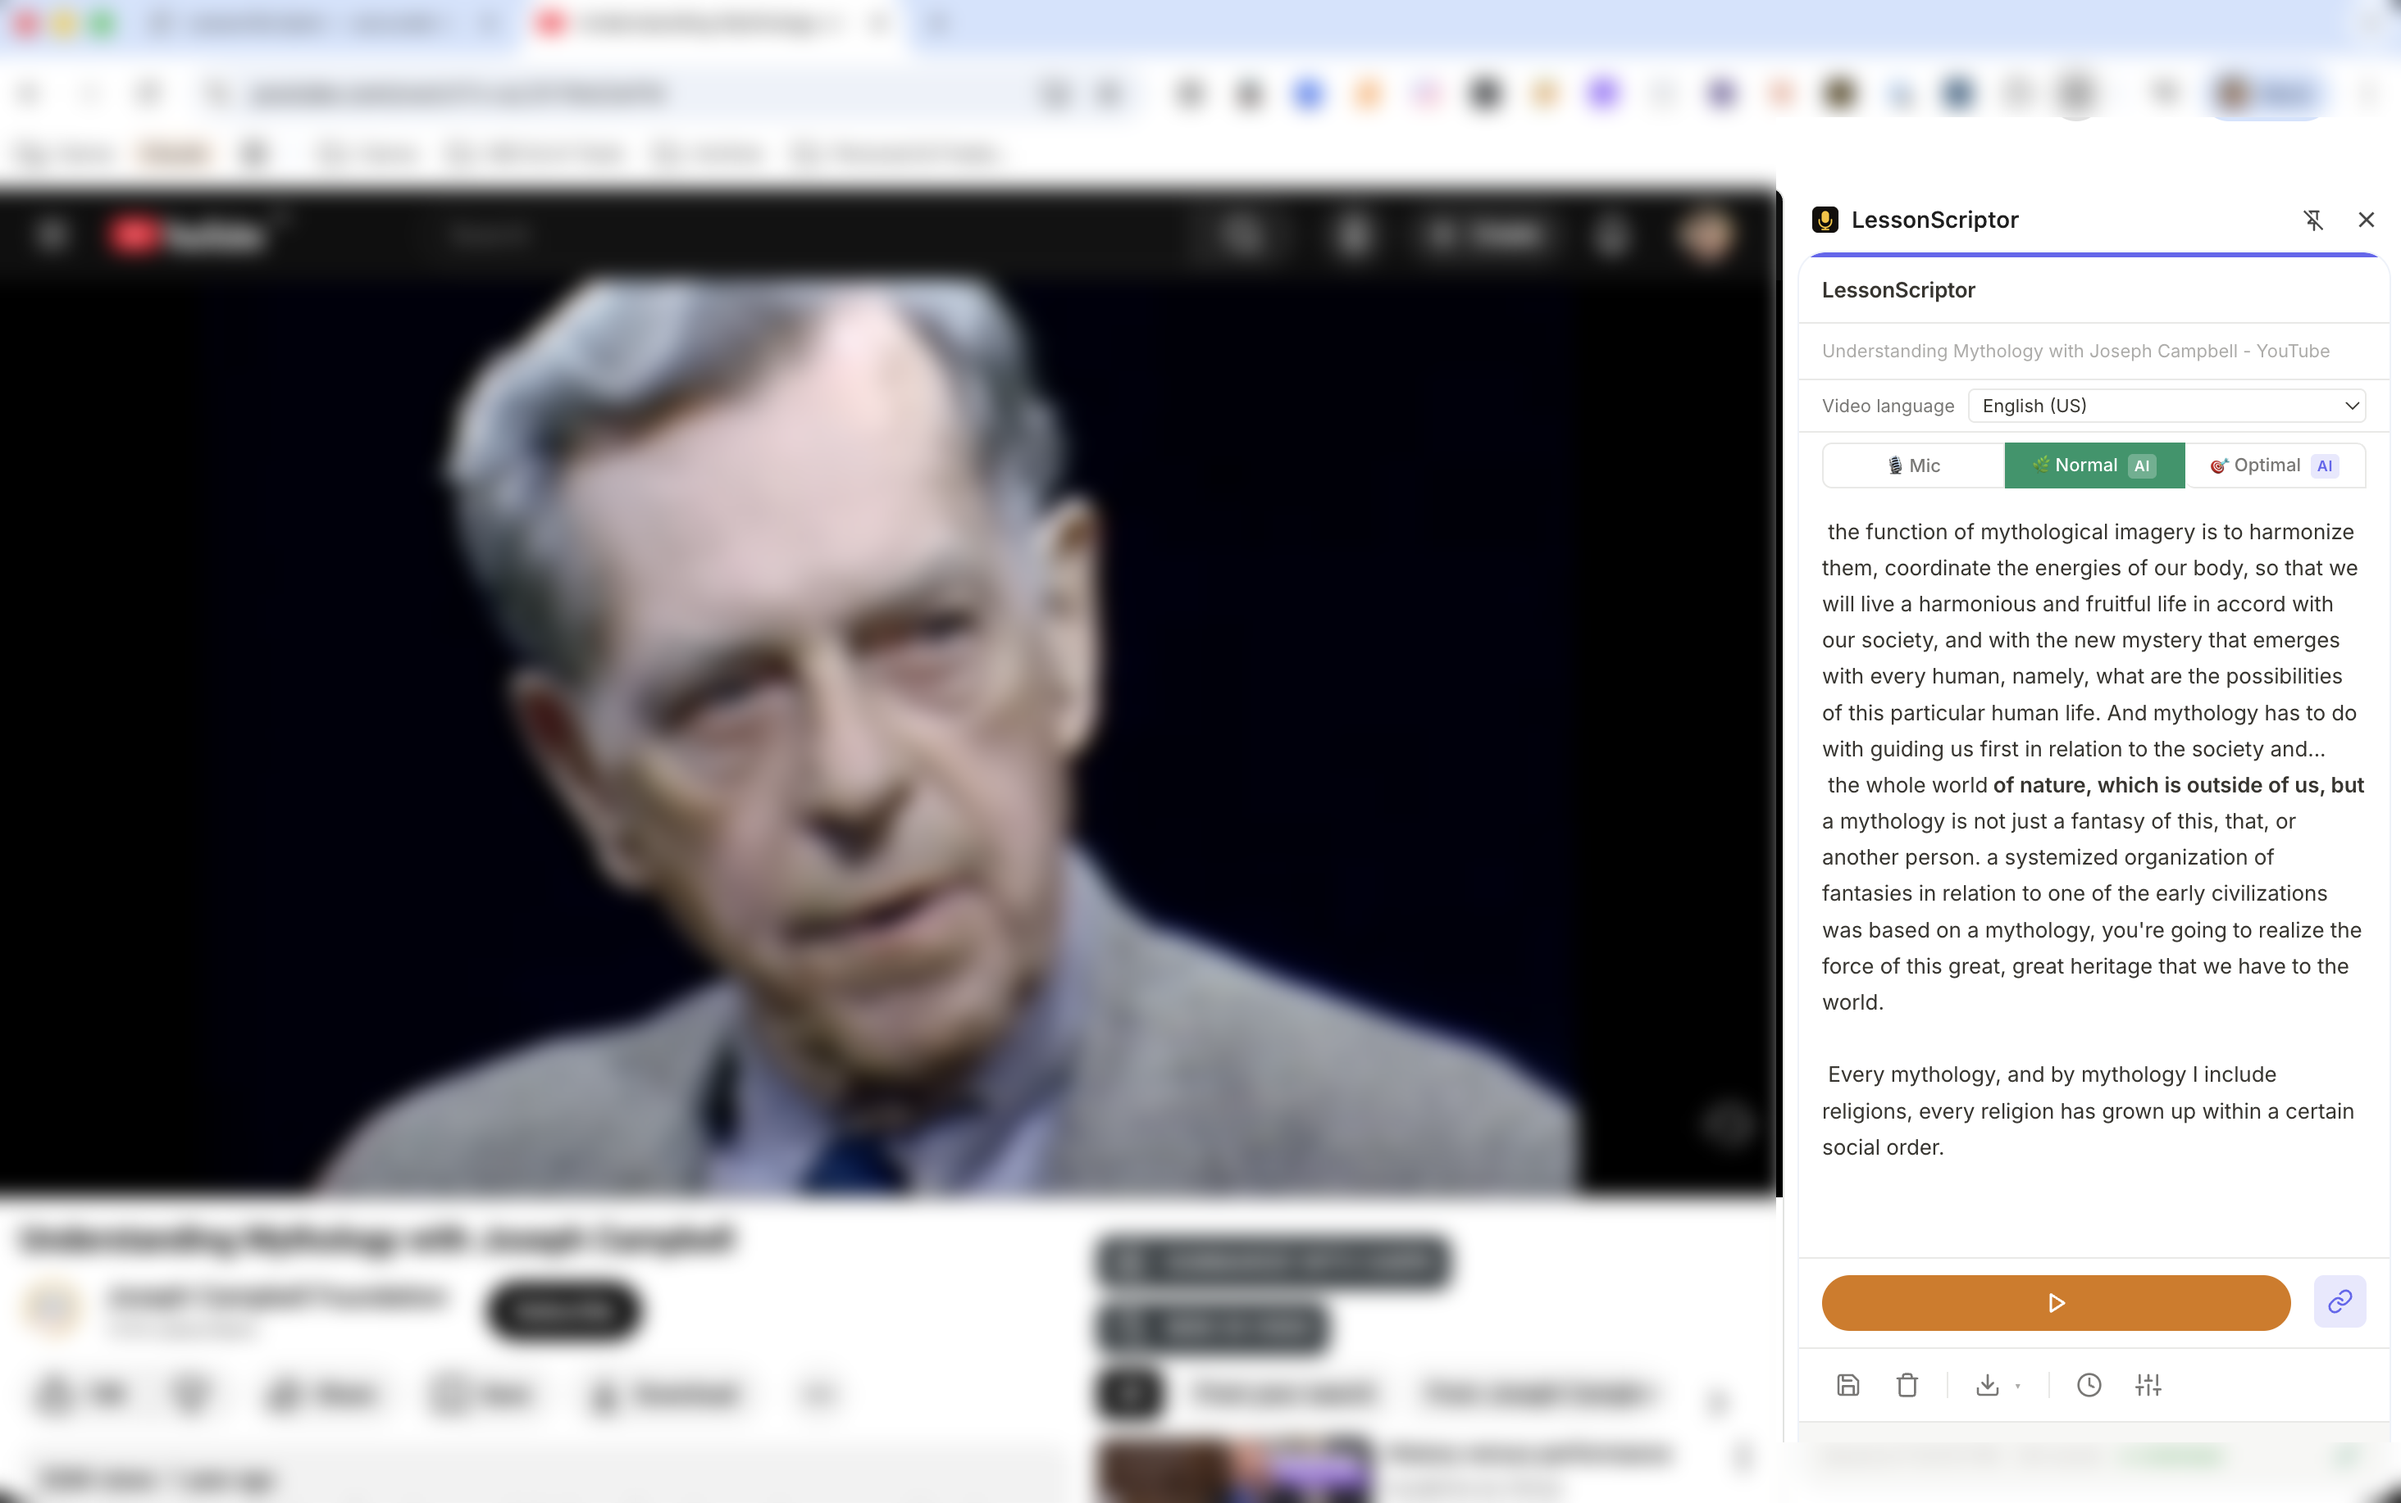
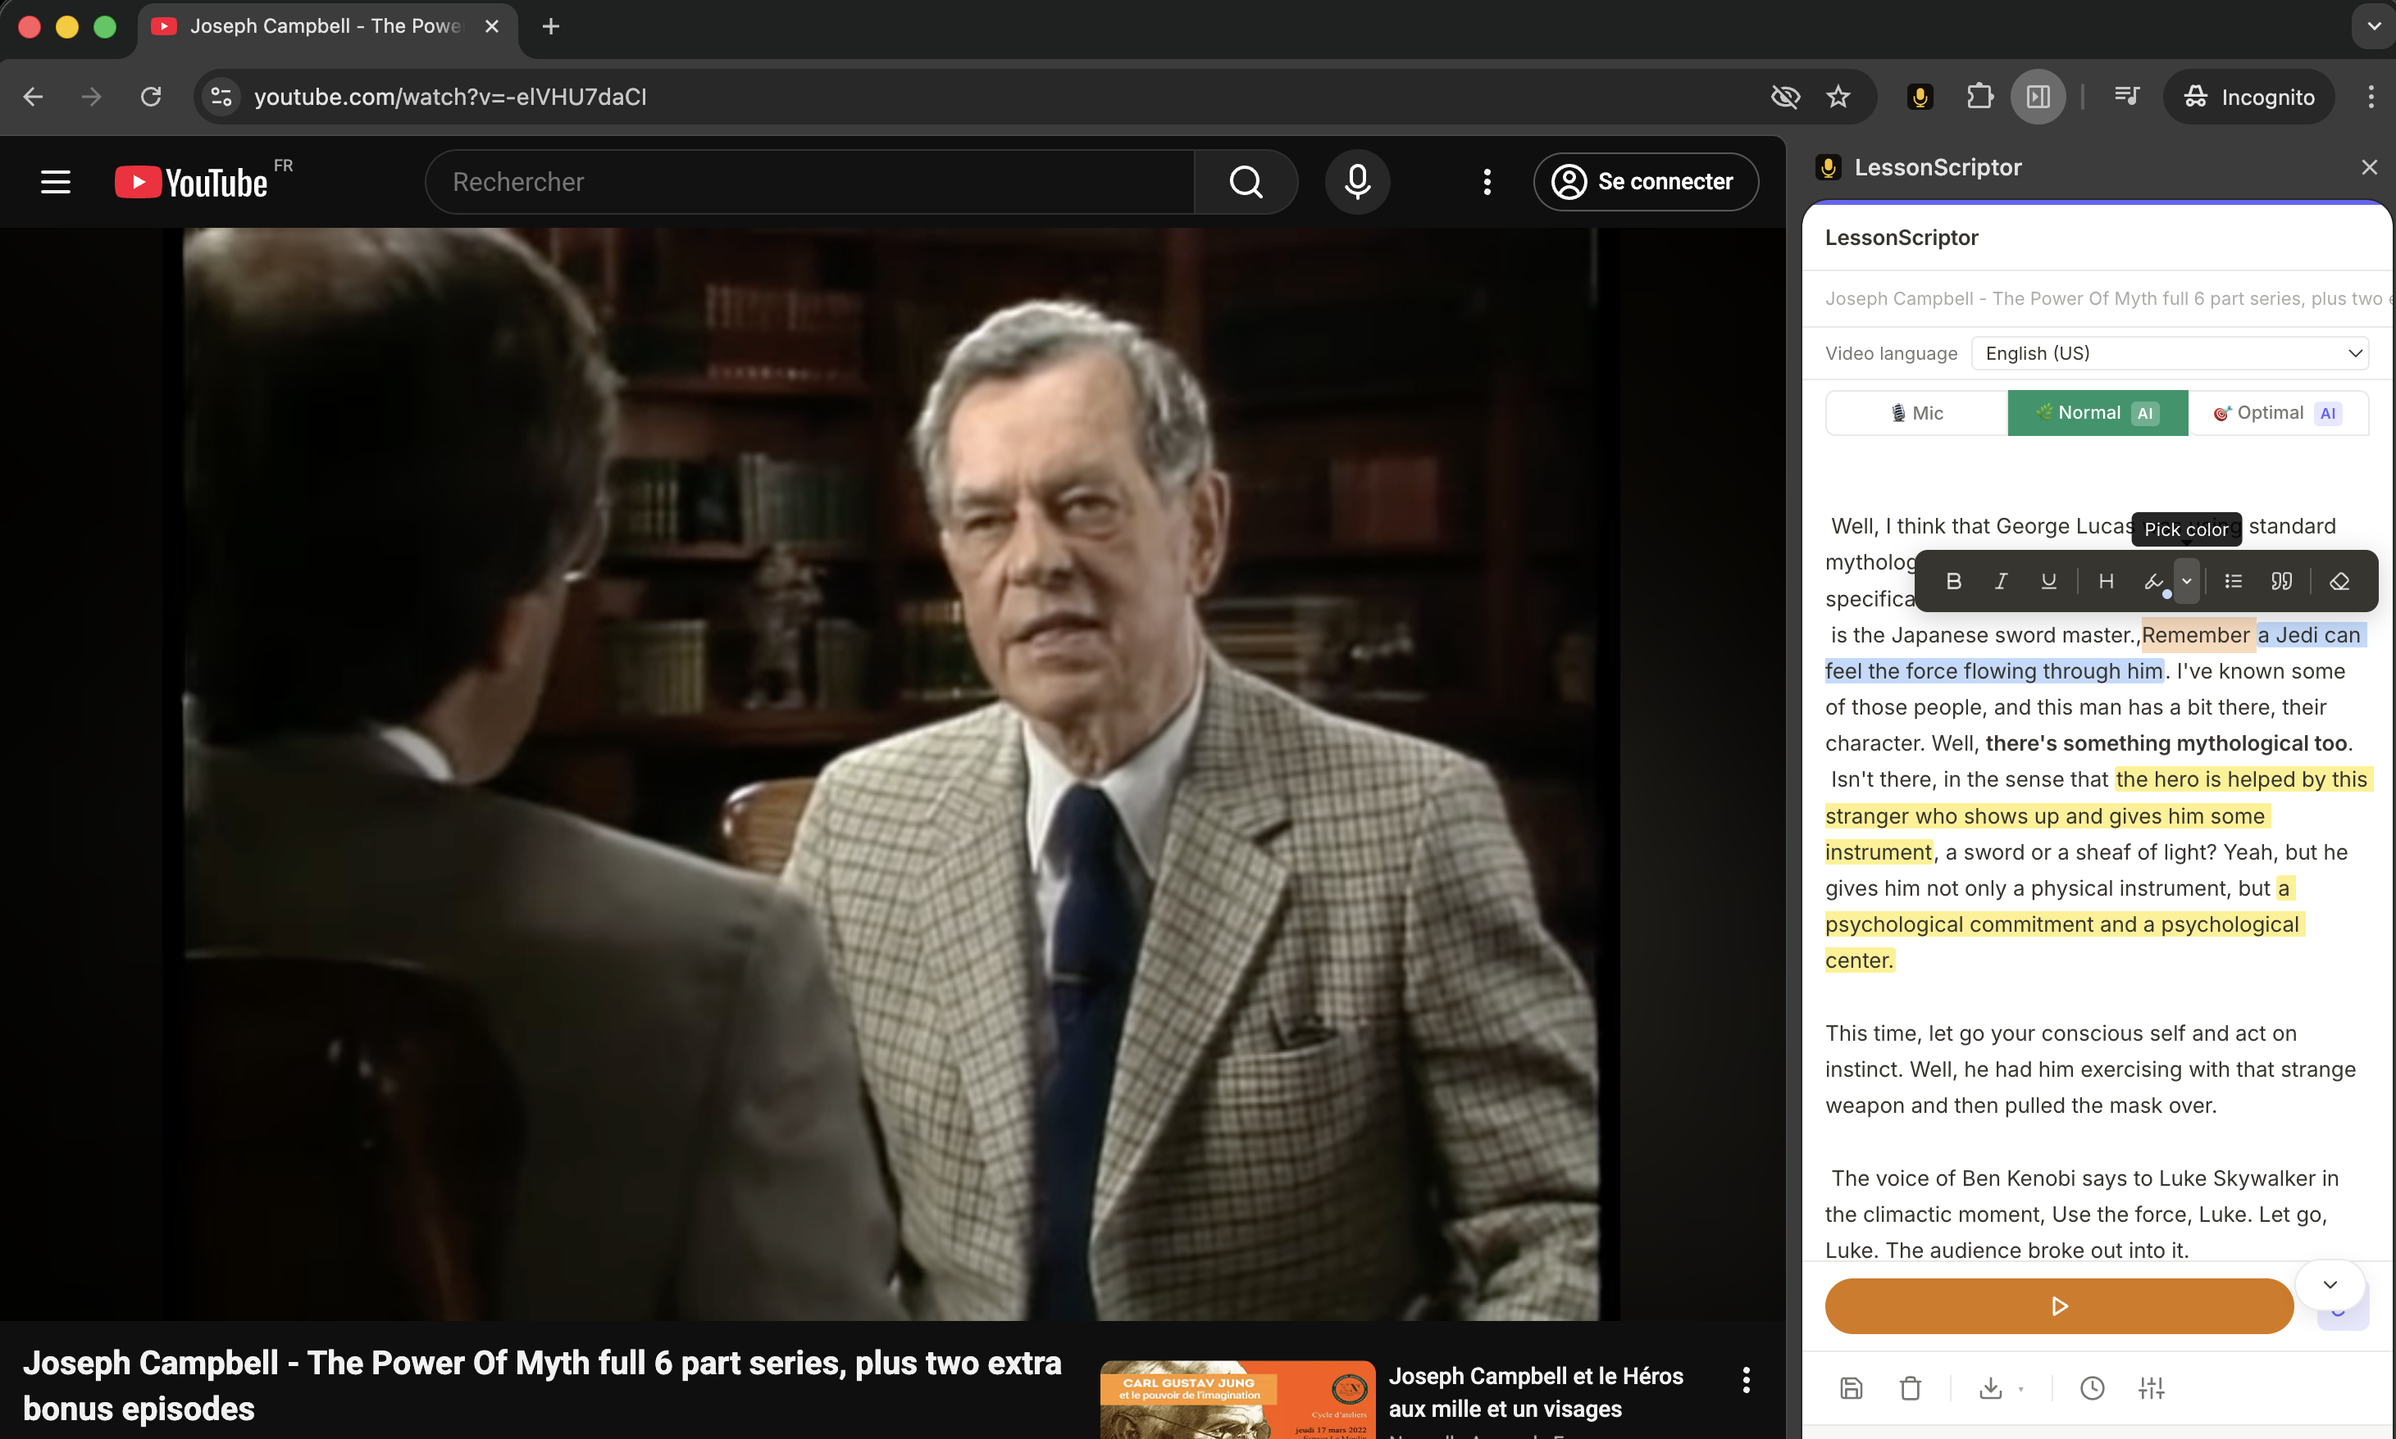
Copy overhaul: sync all locales, 4-card who grid, add GSC verification
- Sync 9 copy changes from en.json to fr/es/de/pt: brain struggles, accuracy
  you can trust, real note editor, session history, full editing parity,
  non-native speakers card, remove premium formatting distinction
- Update who section grid from 3 to 4 columns for new non-native speakers card
- Add Google Search Console verification token to layout metadata
- Replace hero screenshot with full-browser incognito context view

diff --git a/app/[locale]/page.tsx b/app/[locale]/page.tsx
@@ -67,7 +67,7 @@ export default async function HomePage({ params: { locale } }: { params: { local
 
   const problemIcons = [HandRaisedIcon, SparklesIcon, GlobeAltIcon, BoltIcon]
   const featureIcons = [MicrophoneIcon, PencilSquareIcon, ArrowDownTrayIcon, LanguageIcon, ShieldCheckIcon, ClockIcon]
-  const whoIcons = [AcademicCapIcon, SparklesIcon, ComputerDesktopIcon]
+  const whoIcons = [AcademicCapIcon, SparklesIcon, GlobeAltIcon, ComputerDesktopIcon]
 
   return (
     <>
@@ -103,7 +103,7 @@ export default async function HomePage({ params: { locale } }: { params: { local
           </div>
 
           {/* Full-width browser context screenshot */}
-          <div className="relative mx-auto max-w-5xl">
+          <div className="relative mx-auto max-w-5xl pb-16">
             <div className="bg-white p-2 sm:p-3 rounded-2xl sm:rounded-3xl shadow-lg border border-cream-200 overflow-hidden">
               <Image
                 src="/images/sidebar-context.png"
@@ -175,7 +175,7 @@ export default async function HomePage({ params: { locale } }: { params: { local
             <p className="eyebrow">{t('who.eyebrow')}</p>
             <h2 className="font-serif text-4xl md:text-5xl font-bold text-terra-800 tracking-tight leading-tight">{t('who.title')}</h2>
           </div>
-          <div className="grid md:grid-cols-3 gap-5 max-w-4xl mx-auto">
+          <div className="grid grid-cols-2 md:grid-cols-4 gap-5 max-w-5xl mx-auto">
             {t.raw('who.items').map((item: { title: string; desc: string; tag: string }, i: number) => {
               const Icon = whoIcons[i]
               return (

diff --git a/app/[locale]/layout.tsx b/app/[locale]/layout.tsx
@@ -33,7 +33,7 @@ export async function generateMetadata({ params: { locale } }: { params: { local
       description: site.description,
     },
     verification: {
-      google: 'REPLACE_WITH_GSC_VERIFICATION_TOKEN',
+      google: 'NWAu36gT5TsT2EkB4qbgsD2KaghAslDeD0Gh1AP9X8c',
     },
     robots: { index: true, follow: true },
     alternates: {
